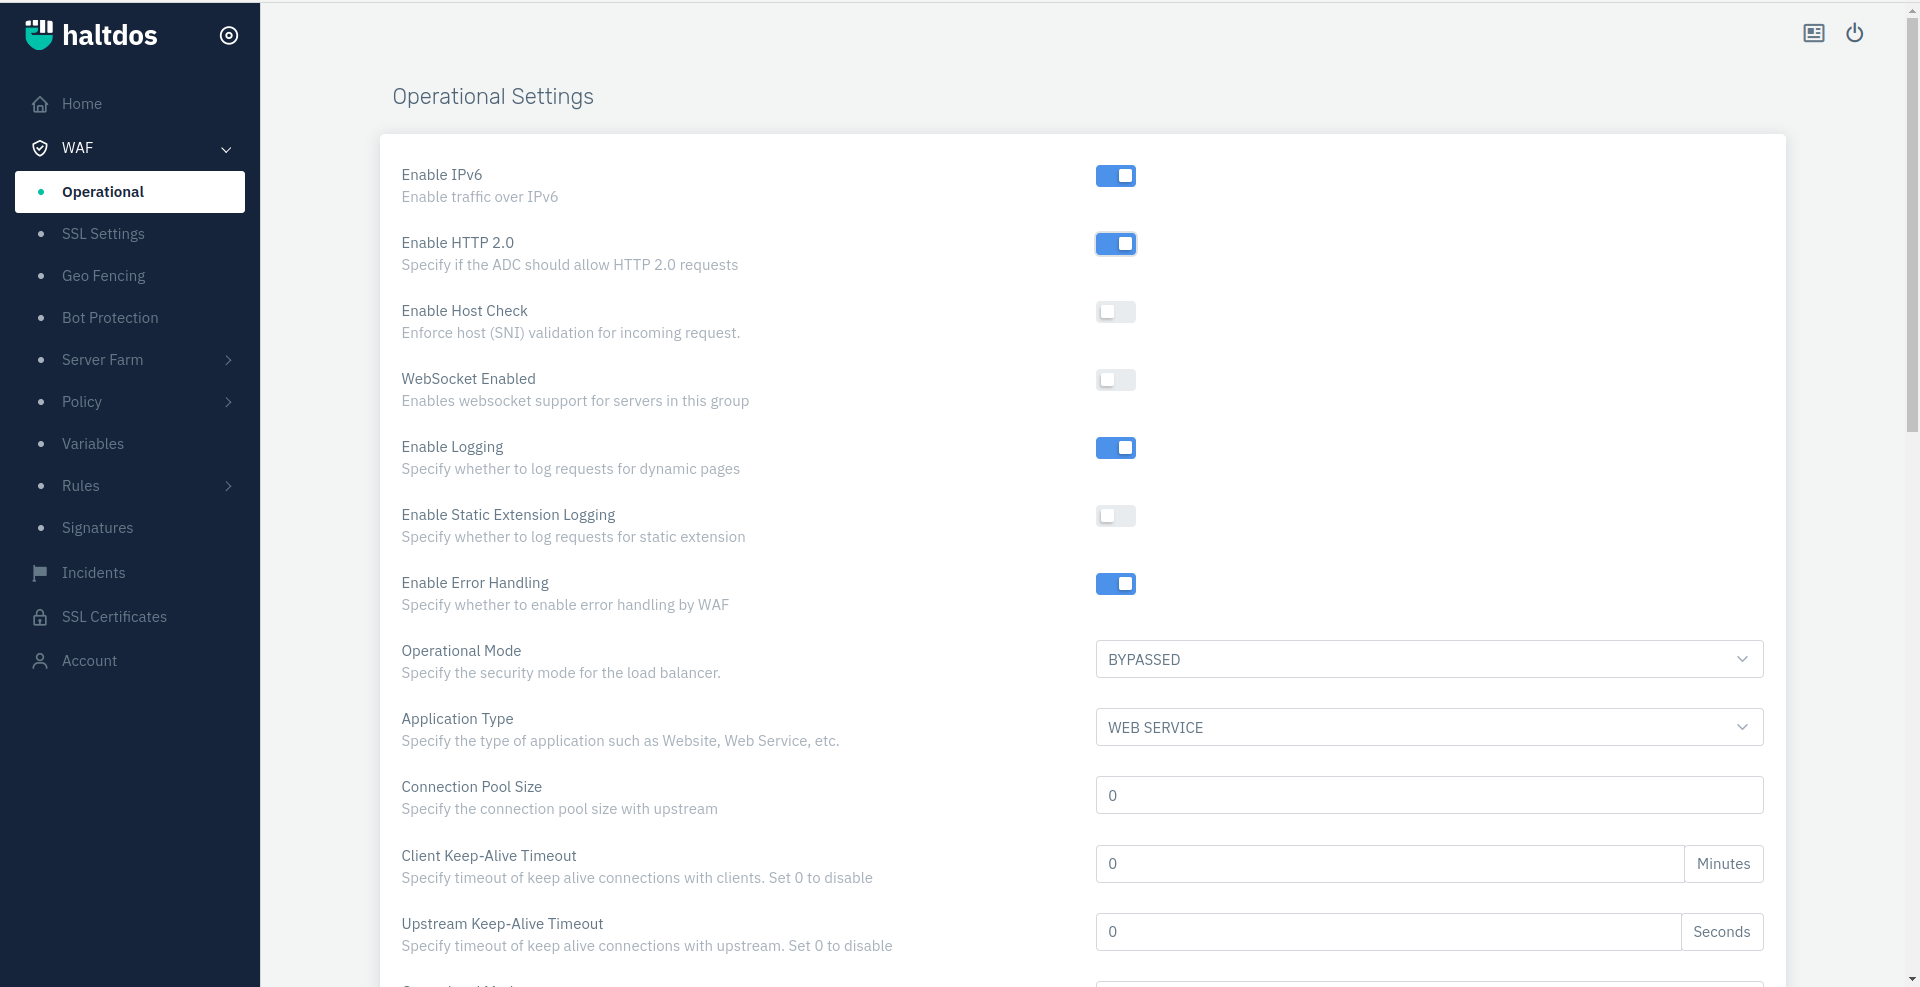
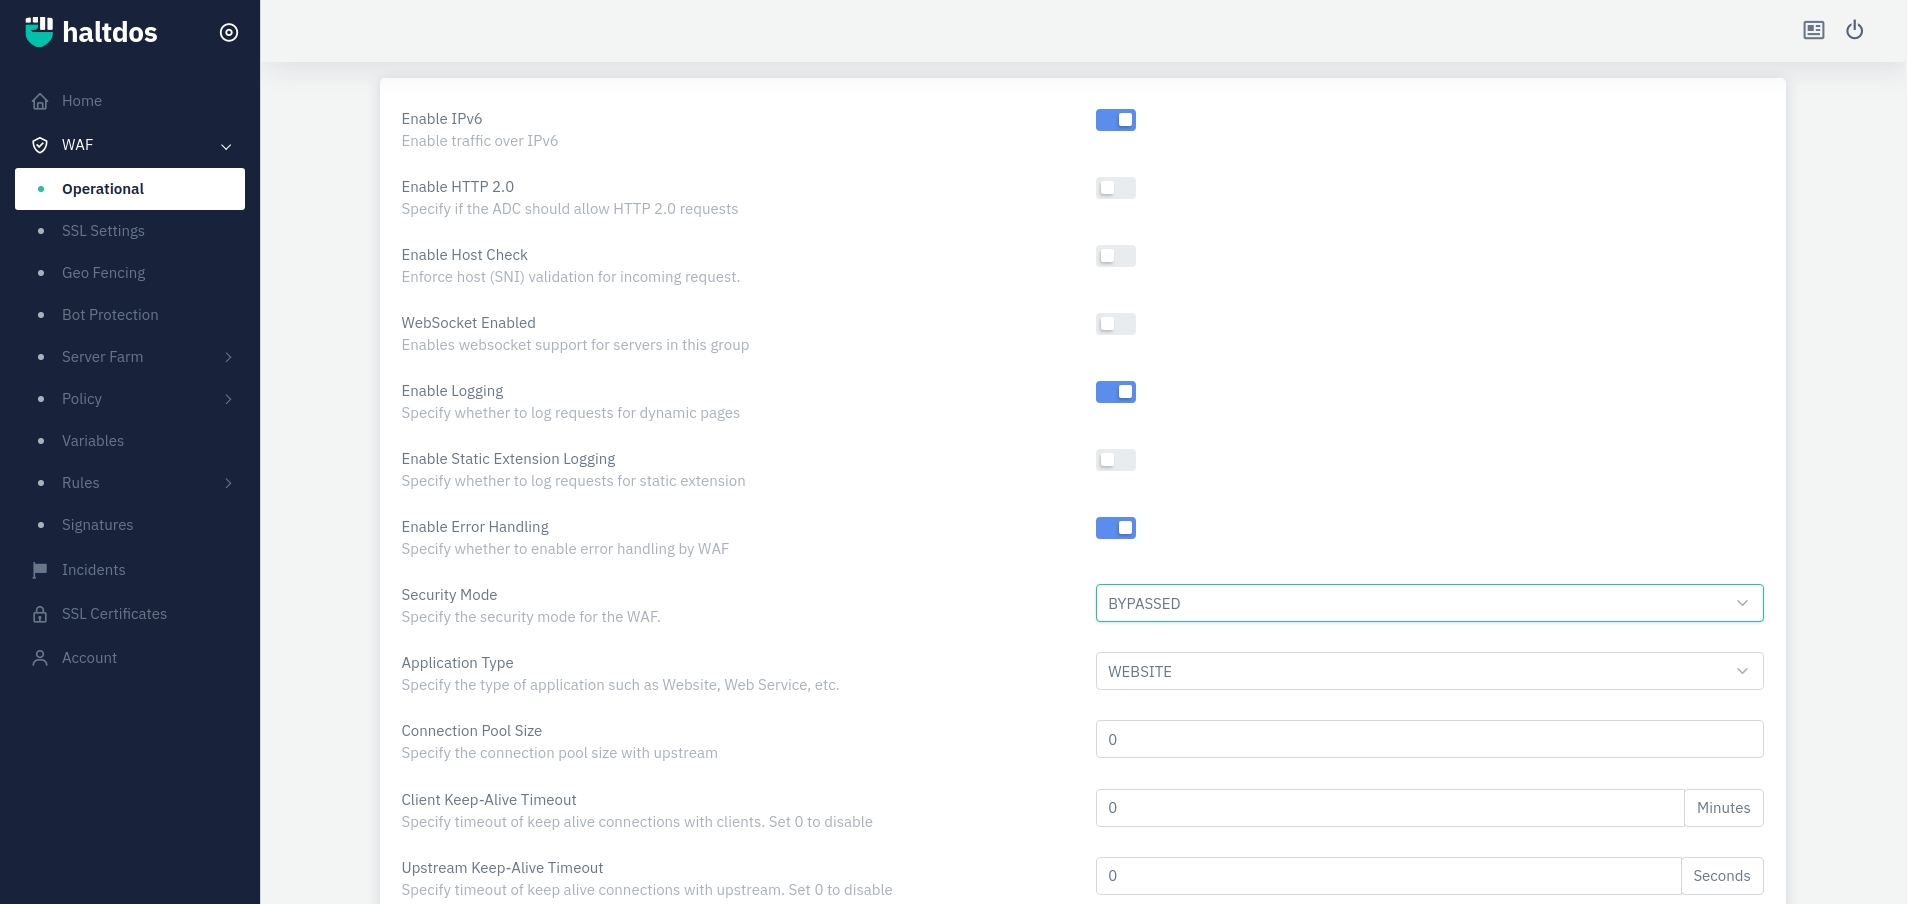
f

diff --git a/docs/community-waf/docs/waf/signatures.md b/docs/community-waf/docs/waf/signatures.md
@@ -3,55 +3,36 @@ sidebar_position: 7
 ---
 # Signatures
 
-### Overview
+## Overview
 
 Signatures contain rules that are evaluated for each request that passes through WAF. The rules offer protection from many different types of attacks for Web Service/API including OWASP top 10 as well as it can help users to specify the behavior for their application. The WAF has multiple types of Rules designed to target specific use cases.
 
 ### How to Use
 1. Log onto the Haltdos console then go to **WAF** > **Signatures**
-2. You can change the status of the signature to AUTO, PROD, STAGED, DISABLED.
+2. You can change the status of the signature to **PROD**, **STAGED**.
 3. Configurations will be deployed successfully.
 
 | Parameters | Accepted value                                         |  Default |
 |------------|--------------------------------------------------------|----------|
 | Rule ID    | Integer                                                | None     |
 | Type       | Type of rule                                           | None     |
-| Name       | Name of the signature	                                 | None     |
-| Status     | Choose the status of the signature from the drop-down	 | None     |
-| Time Stamp | Date and Timestamp of the rule when last updated.	     | None     |
-| Requests   | Specifies the count of hits	                           | None     |
-| Match      | Specifies the count when the rule is matched.	         | None     |
-| Action     | Delete the rule	                                       | None     |
+| Name       | Name of the signature	                              | None     |
+| Status     | Choose the status of the signature from the drop-down  | None     |
 
-### Description
 
-#### Rule Id
+#### Description
+
+##### Rule Id
 Predefined rule id for the signatures. The Id is unique for each rule.
 
-#### Type
+##### Type
 It specifies the type of signature like Firewall, Response, etc.
 
-#### Name
+##### Name
 
 It specifies the name of the signatures. The name describes the identity of the rule which helps the user understand what is the use of that rule.
 
-#### Status
+##### Status
 
-It specifies the status of the signature and can be set accordingly to PROD, STAGED, DISABLED.
-
-#### Timestamp
-It specifies the date time stamp at which the rule has been updated.
-
-#### Requests
-It specifies the number of times request matched with the current rule while learning-enabled with the current security profile.
-
-#### Match
-It specifies the number of requests matched with the current rule in the current security profile.
-
-#### Action 
-It specifies the action need to perform on the current rule. In order to delete the rule, we can click on the delete button to remove certain rules in the current security profile.
-
-We can reset learning by clicking the Reset Learning button at the top right of the page.
-
-We can also update the rule status at once by selecting multiple rules. After clicking on the Update Status button, select desired status to update.
+It specifies the status of the signature and can be set accordingly to PROD / STAGED.
 

diff --git a/docs/community-waf/docs/waf/bot_protection.md b/docs/community-waf/docs/waf/bot_protection.md
@@ -16,9 +16,9 @@ Bot Protection helps you quickly determine, manage, and mitigate automated reque
 
 | Parameters                 | Accepted value                          |  Default  |
 |----------------------------|-----------------------------------------|-----------|
-| Allowed Crawlers           | User Agent	                             | Blank     |
-| Bad Crawlers               | User Agent	                             | Blank     |
-| Bad Reputation Traffic	    | NO ACTION / SEND CHALLENGE / DROP	 | No Action |
+| Allowed Crawlers           | User Agent	                           | Blank     |
+| Bad Crawlers               | User Agent	                           | Blank     |
+| Bad Reputation Traffic	 | NO ACTION / / DROP	                   | No Action |
 
 
 ### Description
@@ -27,7 +27,7 @@ Bot Protection helps you quickly determine, manage, and mitigate automated reque
 Specify the list of good crawlers by specifying their user agents. Such requests will be allowed.
 
 #### Bad Crawlers
-Users are allowed to specify the list of bad crawlers by specifying their user agents. Such requests will be dropped.This field specifies the list of good crawlers by specifying their user agents. You can add single or multiple user agents. All the user agent mentioned in Allowed Crawlers permits the crawlers to access the protected URL.
+Users are allowed to specify the list of bad crawlers by specifying their user agents. Such requests will be dropped.This field specifies the list of bad crawlers by specifying their user agents. You can add single or multiple user agents. All the user agent mentioned in Bad Crawlers, their requests will be dropped.
 
 #### Bad Reputation Traffic
 Users are allowed to specifies the action to perform on traffic from suspicious IPs reported by Haltdos Threat Stream TM.

diff --git a/docs/community-waf/docs/waf/rules/behavior_rules.md b/docs/community-waf/docs/waf/rules/behavior_rules.md
@@ -12,9 +12,9 @@ The Behavior rule is a feature of Haltdos WAF that that allows application owner
 ### How to Use:
 1. Log onto the Haltdos Community WAF portal.
 2. Go to **WAF** > **Rules** > **Behavior Rules**.
-3. Click on the Add Rule Button and a pop-up box will open.
+3. Click on the **Add Rule**
 4. Configure the fields that are present.
-5. Click on Save Changes and the rule will be reflected.
+5. Click on **Save Changes** and the rule will be reflected.
 
 | Parameters      | Accepted value |  Default       |
 |-----------------|----------------|----------------|
@@ -22,6 +22,7 @@ The Behavior rule is a feature of Haltdos WAF that that allows application owner
 | Rule Message    | String         | Blank          |
 | Rule Priority   | Integer        | 0              |
 | Rule Action     | Drop-down      | Record-request |
+| Redirection URL | String         | /              |
 | Variable Name   | Drop-down      | Blank          |
 | Condition       | Drop-down      | Pattern exist  |
 | Condition Value | String         | Blank          |
@@ -71,9 +72,11 @@ Select if condition value equal value matches for selected variable.
 Select if condition value is not equal for selected variable.
    
 ##### Less Than
+Select if condition value is less than for selected variable.
    
-##### Greater Than
-
+##### Greater Than  
+Select if condition value is greater than for selected variable.
+   
 #### Condition Value
 Users are allowed to specify the condition value for the rule.
 

diff --git a/docs/community-waf/docs/waf/operational.md b/docs/community-waf/docs/waf/operational.md
@@ -28,12 +28,12 @@ Users are allowed to configure many operational settings for the Listeners confi
 | Enable Logging                  | Boolean        | True              |
 | Enable Static Extension Logging | Boolean        | False             |
 | Enable Error Handling           | Boolean        | True              |
-| Operational Mode                | Drop-down      | Bypass            |
+| Security Mode                   | Drop-down      | Bypass            |
 | Application Type                | Drop-down      | Website           |
 | Connection Pool Size            | Integer        | 0                 |
 | Client Keep-Alive Timeout       | Integer        | 0                 |
 | Upstream Keep-Alive Timeout     | Integer        | 0                 |
-| Listener Operational Mode       | Drop-down      | Reverse-Proxy     |
+| Operational Mode                | Drop-down      | Reverse-Proxy     |
 | Limit Max Connections           | Integer        | 0                 |
 | Client Body Timeout             | Integer        | 300               |
 | Client Header Timeout           | Integer        | 300               |

diff --git a/docs/community-waf/docs/waf/rules/firewall_rules.md b/docs/community-waf/docs/waf/rules/firewall_rules.md
@@ -35,6 +35,7 @@ The following actions are available to the User :
 | Rule Action     | Drop-down      | Record Request |
 | Find Location   | Drop-Down      | Variable       |
 | Find Parameter  | String         | Blank          |
+| Variable        | Drop-Down      | Blank          |
 | Match Condition | Drop-Down      | Pattern Exists |
 | Match Value     | String         | Blank          |
    
@@ -53,7 +54,7 @@ It is a numeric field that specifies the priority of the rule in which the rule 
 Users are allowed to specify the URI. Specify the URI on which the firewall rule will be applied.
 
 #### Method
-Users are allowed to specify the HTTP method on which the rule will be applied i.e. All, GET, POST, PUT, DELETE, HEAD, OPTIONS.
+Users are allowed to specify the HTTP method on which the rule will be applied i.e. ANY, GET, POST, PUT, DELETE, HEAD, OPTIONS.
 
 #### Rule Action
 Users are allowed to specify the action to be taken for the request matched i.e. No Action, Drop, Record, Bypass, Redirect, Temporary Blacklist, Send Challenge, Skip Learning.

diff --git a/docs/community-waf/docs/waf/rules/variable_rules.md b/docs/community-waf/docs/waf/rules/variable_rules.md
@@ -16,8 +16,8 @@ Note: Any parameter from the Request/Response can be stored in a variable.
 ## How to use:
 1. Log onto the Haltdos Community WAF portal.
 2. Go to **WAF** > **Rules** > **Variable Rules**.
-3. Create rules with different conditions.
-4. Click on Save Changes.
+3. Create rules with different conditions.  
+4. Click on **Save Changes**.  
 
 | Parameters       | Accepted value |  Default |
 |------------------|----------------|----------|
@@ -28,7 +28,11 @@ Note: Any parameter from the Request/Response can be stored in a variable.
 | Variable         | Drop-down      | Blank    |
 | Mutation Action  | Drop-down      | SET      |
 | Value            | String         | None     |
-
+| Condition Phase  | Drop-down      | Request        |
+| Find Location    | Drop-Down      | Variable       |
+| Find Parameter   | String         | Blank          |
+| Match Condition  | Drop-Down      | Pattern Exists |
+| Match Value      | String         | Blank          |
 
 ![Variable Rule](/img/community-waf/variablerulescondition.png)
 

diff --git a/docs/community-waf/docs/incident.md b/docs/community-waf/docs/incident.md
@@ -20,7 +20,7 @@ Further to detailing the incident through Events, users can perform various acti
 
 ![Events](/img/community-waf/incidents.png)
 
-#### Type of Incidents
+#### Type of Incidents  
 - **Drop Incidents**:
 
 - **Recorded Incidents**:
@@ -29,20 +29,20 @@ Further to detailing the incident through Events, users can perform various acti
 
 - **Health Incidents** :
 
-## How to Use:
+### How to Use:
 
 1. Go to **WAF** > **Incidents**.
 2. Choose Type of Incidents that you want to view.
 
-- You may also check the previous incidents by changing the date.
+    - You may also check the previous incidents by changing the date.
 
 
 
-### Filter
+#### Filter
 Users can filter out the events based on type of incidents.
 
-### Refresh
+#### Refresh
 Users can enable auto-refresh in order to refresh the real-time alerts for requests. The details will be displayed in events for the specific type of request.
 
-### Date Range
+#### Date Range
 Users are allowed to select an appropriate date range no longer than 1 month.

diff --git a/docs/community-waf/docs/waf/ssl_settings.md b/docs/community-waf/docs/waf/ssl_settings.md
@@ -23,19 +23,19 @@ It provides functionality to support SSL offloading based on configurations. As 
 | SSL Session Caching   | Integer        | 10           |
 | SSL Session Timeout   | Integer        | 5            |
 
-### Description
+#### Description
 
-#### Enable SSL Offloading
+##### Enable SSL Offloading
 Users are allowed to specify if the solution should offload SSL traffic.
 
-#### SSL Certificate
+##### SSL Certificate
 Users are allowed to specify SSL certificate for Encryption / Decryption.
 
-#### SSL Cipher Suites
+##### SSL Cipher Suites
 Users are allowed to specify the security / compatibility of SSL with modern web browsers.
 
-#### SSL Session Caching
+##### SSL Session Caching
 Users are allowed to specify the ssl session caching
 
-#### SSL Session Timeout
+##### SSL Session Timeout
 Users are allowed to specify the ssl session timeout.

diff --git a/docs/community-waf/docs/waf/rules/correlation_rules.md b/docs/community-waf/docs/waf/rules/correlation_rules.md
@@ -20,9 +20,10 @@ Correlation rules support using compounding logic to make more advanced rules th
 | Rule Name     | String         | Blank          |
 | Rule Message  | String         | Blank          |
 | Rule Priority | Integer        | 0              |
-| URI           | String         | Blank          |
-| Method        | Drop-down      | ALL            |
-| Action        | Drop-down      | Record-request |
+| HTTP URI      | String         | Blank          |
+| HTTP Method   | Drop-down      | ALL            |
+| Rule Action   | Drop-down      | Record-request |
+| Redirection URL | String       | /              |
 | Rule ID       | String         | Blank          |
 | Match         | String         | Blank          |
    

diff --git a/docs/community-waf/docs/waf/rules/header_rules.md b/docs/community-waf/docs/waf/rules/header_rules.md
@@ -29,11 +29,11 @@ Specify a rule message containing a detailed description to identify the rule wh
 
 User can define the rule's priority among various other custom error rules.
 
-#### URI
+#### HTTP URI
 
 Specify the URI or regex for which rule will be applied. 
 
-#### Method
+#### HTTP Method
 
 Select the HTTP method for the rule to validate when matched with the request.
 
@@ -78,7 +78,7 @@ The user can specify some request/response-based conditions which can be used as
 
 For adding a condition, the required fields are:
 
-#### Consition Phase
+#### Condition Phase
 
 This field determines that the condition will be checked on request/response parameters.
 

diff --git a/docs/community-waf/docs/waf/rules/whitelist_rules.md b/docs/community-waf/docs/waf/rules/whitelist_rules.md
@@ -48,7 +48,7 @@ It is a numeric field that specifies the priority of the rule in which the rule 
 Users are allowed to specify the URI. Specify the URI on which the firewall rule will be applied.
 
 #### Method
-Users are allowed to specify the HTTP method on which the rule will be applied i.e. All, GET, POST, PUT, DELETE, HEAD, OPTIONS.
+Users are allowed to specify the HTTP method on which the rule will be applied i.e. ANY, GET, POST, PUT, DELETE, HEAD, OPTIONS.
 
 #### Custom Rule IDs
 Users are allowed to specify the rule/mitigation id that needs to be whitelisted so that action against that request will be allowed.

diff --git a/docs/community-waf/docs/ssl_certificates.md b/docs/community-waf/docs/ssl_certificates.md
@@ -57,7 +57,7 @@ To upload custom certificates, follow the steps below:
 
 | Parameters  | Accepted value |  Default                    |
 |-------------|----------------|-----------------------------|
-| name        | String         | Blank                       |
+| Name        | String         | Blank                       |
 | Domain      | String         | Blank                       |
 | App Option  | Drop-down      | Generate/upload certificate |
 | Public Key  | String         | Blank                       |
